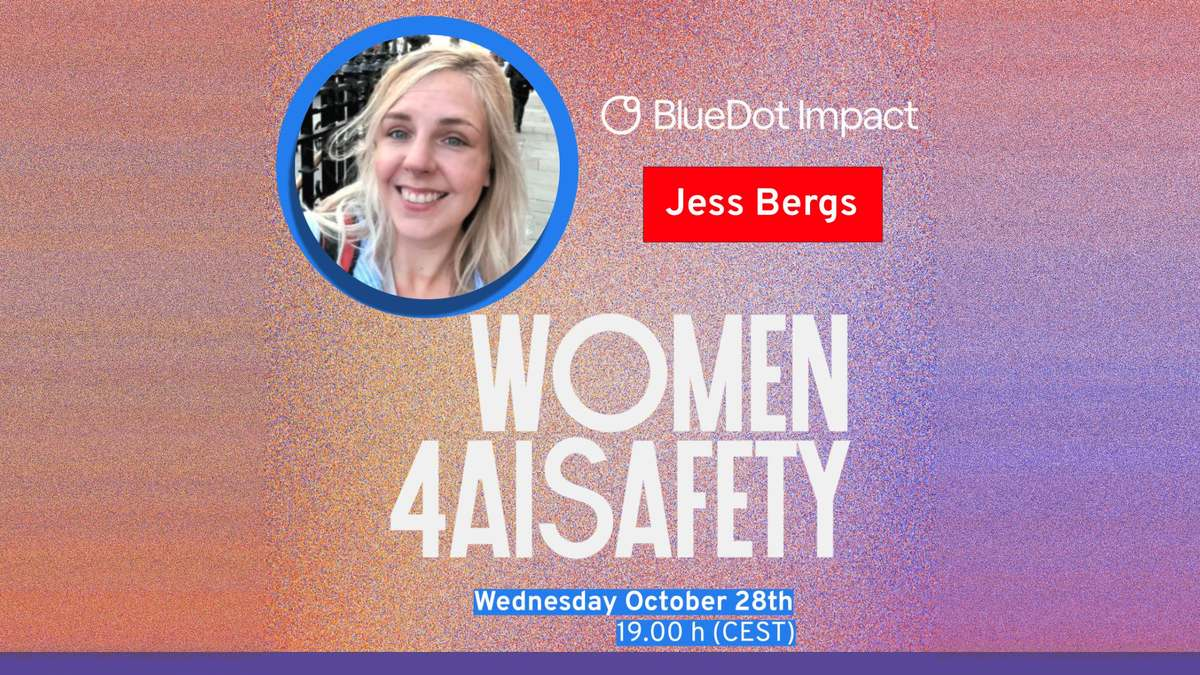
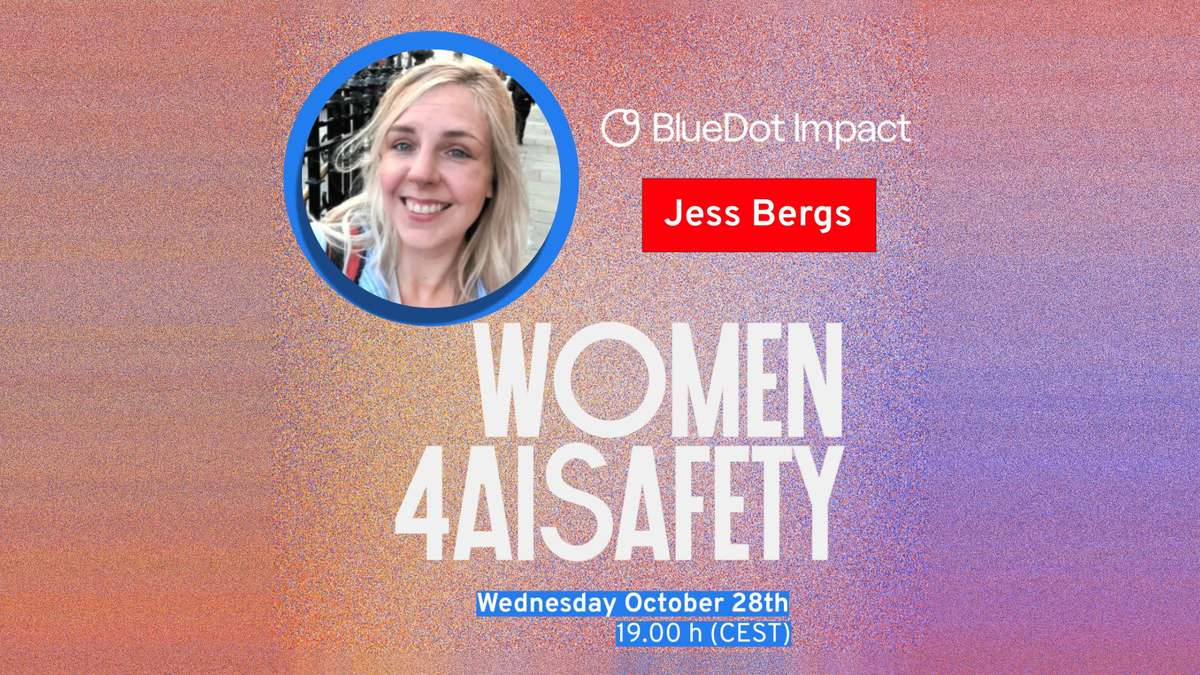
content: drop the strip and balance the margins on the Women4AISafety tile
The purple base strip is replaced by the extended background, and the content gets equal background margins: the distance from the portrait ring to the top edge equals the distance from the date line to the bottom edge. Screenshot refreshed.

diff --git a/docs/assets/women4aisafety-tile-candidates/make_tiles.py b/docs/assets/women4aisafety-tile-candidates/make_tiles.py
@@ -5,11 +5,16 @@ usage: uv run --with pillow python -I make_tiles.py <screenshot.png>
 
 The screenshot is the 1142x1432 LinkedIn post; GRAPHIC is the square event
 graphic inside it. The tile is 16:9, so the graphic's speckled gradient
-background and purple base strip are extended sideways: each extra pixel is a
-copy of a random pixel from a content-free sliver at the nearest edge of the
-graphic, taken from a nearby row (within JITTER rows, never across the strip
-edge). That keeps the gradient, the speckle and the strip continuous without a
-visible seam, and without the row banding that pure per-column copying gives.
+background is extended: sideways from content-free slivers at the left and
+right edges (keeping the top-bottom gradient), and above and below from
+content-free bands at the top and just under the date line (keeping the
+left-right gradient). Every added pixel is a random pixel from the relevant
+sliver/band within JITTER rows or columns of its own position, which keeps the
+gradient and speckle continuous without seams or banding.
+
+Variant A (live) drops the purple base strip and gives the content equal
+background margins of GAP rows above the portrait ring and below the date line.
+Variant B keeps the strip, with STRIP_GAP extra rows of background above it.
 Every candidate is 1200x675 and capped at 150 KB. The live tile is written to
 public/images/women4aisafety-2026.jpg.
 """
@@ -24,8 +29,11 @@ OUT_W, OUT_H = 1200, 675
 SIZE_CAP = 150_000
 GRAPHIC = (0, 277, 1109, 1390)  # (x0, y0, x1, y1) of the graphic in the screenshot (1109+ is page border)
 RIGHT_SLIVER = (1080, 1108)  # content-free columns at the graphic's right edge
-JITTER = 14  # rows either side a sampled pixel may come from
-LIVE = "A-extended-centred.jpg"
+LEFT_SLIVER_MAX = 28
+JITTER = 14  # rows/columns either side a sampled pixel may come from
+GAP = 52  # variant A: background rows above the ring and below the date line
+STRIP_GAP = 14  # variant B: extra background rows between the date line and the strip
+LIVE = "A-no-strip.jpg"
 
 
 def save_capped(img, path, cap=SIZE_CAP):
@@ -41,71 +49,125 @@ def luminance(p):
     return (p[0] * 299 + p[1] * 587 + p[2] * 114) // 1000
 
 
-def ring_left_edge(graphic, y0=0, y1=600, run=6):
-    """Leftmost x of the portrait ring (a run of saturated blue) in rows y0..y1."""
+def is_ring(p):
+    r, g, b = p
+    return b > 150 and r < 100 and b > g + 30
+
+
+def ring_bounds(graphic, run=6):
+    """(top row, leftmost column) of the portrait ring: runs of saturated blue."""
     px = graphic.load()
-    best = graphic.width
-    for y in range(y0, y1):
+    top, left = None, graphic.width
+    for y in range(0, 600):
         n = 0
-        for x in range(0, 80):
-            r, g, b = px[x, y]
-            n = n + 1 if (b > 150 and r < 100 and b > g + 30) else 0
+        for x in range(0, 560):
+            n = n + 1 if is_ring(px[x, y]) else 0
             if n >= run:
-                best = min(best, x - run + 1)
+                top = y if top is None else top
+                left = min(left, x - run + 1)
                 break
-    return best
+    return top, left
 
 
-def strip_top(graphic, max_rows=80, tol=12):
+def strip_top(graphic, max_rows=80, tol=48):
     """First row of the solid purple strip at the bottom (rows above it are speckled)."""
     px = graphic.load()
     w, h = graphic.size
     for y in range(h - 1, h - max_rows, -1):
         lums = [luminance(px[x, y]) for x in range(0, w, 7)]
-        if max(lums) - min(lums) > tol * 4:
+        if max(lums) - min(lums) > tol:
             return y + 1
     return h - max_rows
 
 
-def extend(graphic, sliver, width, rng, strip_y):
-    """A `width`-wide strip of pixels sampled from the sliver's columns and nearby rows."""
+def text_bottom_row(graphic, strip_y, run=3):
+    """Last row above the strip that still holds white text (the date line)."""
+    px = graphic.load()
+    for y in range(strip_y - 1, strip_y - 200, -1):
+        n = 0
+        for x in range(graphic.width):
+            n = n + 1 if luminance(px[x, y]) > 235 else 0
+            if n >= run:
+                return y
+    return strip_y - 1
+
+
+def band_fill(graphic, band, width, height, rng):
+    """width x height patch: pixel (x, y) is a random pixel from rows `band` near column x."""
+    if height <= 0:
+        return None
+    src = graphic.load()
+    out = Image.new("RGB", (width, height))
+    dst = out.load()
+    y0, y1 = band
+    w = graphic.width
+    for y in range(height):
+        for x in range(width):
+            sx = min(max(x + rng.randint(-JITTER, JITTER), 0), w - 1)
+            dst[x, y] = src[sx, rng.randrange(y0, y1)]
+    return out
+
+
+def side_fill(graphic, sliver, width, rng, strip_y=None):
+    """width x H patch: pixel (x, y) is a random pixel from columns `sliver` near row y."""
     src = graphic.load()
     h = graphic.height
     out = Image.new("RGB", (width, h))
     dst = out.load()
     x0, x1 = sliver
     for y in range(h):
-        lo, hi = (0, strip_y - 1) if y < strip_y else (strip_y, h - 1)
+        lo, hi = 0, h - 1
+        if strip_y is not None:
+            lo, hi = (0, strip_y - 1) if y < strip_y else (strip_y, h - 1)
         for x in range(width):
             sy = min(max(y + rng.randint(-JITTER, JITTER), lo), hi)
             dst[x, y] = src[rng.randrange(x0, x1), sy]
     return out
 
 
-def extended(graphic, left_w, right_w, left_sliver, rng, strip_y):
-    """The graphic with its background continued `left_w` / `right_w` columns sideways."""
-    c = Image.new("RGB", (graphic.width + left_w + right_w, graphic.height))
-    if left_w:
-        c.paste(extend(graphic, left_sliver, left_w, rng, strip_y), (0, 0))
-    c.paste(graphic, (left_w, 0))
-    if right_w:
-        c.paste(extend(graphic, RIGHT_SLIVER, right_w, rng, strip_y), (left_w + graphic.width, 0))
+def compose(parts, left_sliver, rng, strip_h=0):
+    """Stack `parts` vertically, extend sideways to 16:9, resize to the tile size."""
+    parts = [p for p in parts if p is not None]
+    h = sum(p.height for p in parts)
+    g = Image.new("RGB", (parts[0].width, h))
+    y = 0
+    for p in parts:
+        g.paste(p, (0, y))
+        y += p.height
+    strip_y = h - strip_h if strip_h else None
+    extra = round(h * OUT_W / OUT_H) - g.width
+    left_w, right_w = extra // 2, extra - extra // 2
+    c = Image.new("RGB", (g.width + extra, h))
+    c.paste(side_fill(g, left_sliver, left_w, rng, strip_y), (0, 0))
+    c.paste(g, (left_w, 0))
+    c.paste(side_fill(g, RIGHT_SLIVER, right_w, rng, strip_y), (left_w + g.width, 0))
     return c.resize((OUT_W, OUT_H), Image.LANCZOS)
 
 
 def main():
     shot = Image.open(sys.argv[1]).convert("RGB")
-    graphic = shot.crop(GRAPHIC)
+    g = shot.crop(GRAPHIC)
+    w, h = g.size
     rng = random.Random(4)
-    total_w = round(graphic.height * OUT_W / OUT_H)
-    extra = total_w - graphic.width
-    ring_x = ring_left_edge(graphic)
-    left_sliver = (0, max(4, min(ring_x - 4, 28)))
-    strip_y = strip_top(graphic)
-    print(f"ring left edge x={ring_x}; left sliver {left_sliver}; strip from row {strip_y}; extension {extra} px")
+    strip_y = strip_top(g)
+    text_y = text_bottom_row(g, strip_y)
+    ring_top, ring_left = ring_bounds(g)
+    left_sliver = (0, max(4, min(ring_left - 4, LEFT_SLIVER_MAX)))
+    top_band = (0, max(4, ring_top - 4))
+    bottom_band = (text_y + 2, strip_y)
+    body = g.crop((0, 0, w, strip_y))
+    strip = g.crop((0, strip_y, w, h))
+    print(f"ring top={ring_top} left={ring_left}; date line ends row {text_y}; strip from row {strip_y}")
+
+    def build(gap, keep_strip):
+        top = band_fill(g, top_band, w, gap - ring_top, rng)
+        bottom = band_fill(g, bottom_band, w, gap - (strip_y - text_y), rng)
+        parts = [top, body, bottom] + ([strip] if keep_strip else [])
+        return compose(parts, left_sliver, rng, strip.height if keep_strip else 0)
+
     out = {
-        "A-extended-centred.jpg": extended(graphic, extra // 2, extra - extra // 2, left_sliver, rng, strip_y),
-        "B-extended-left.jpg": extended(graphic, 0, extra, left_sliver, rng, strip_y),
+        "A-no-strip.jpg": build(GAP, keep_strip=False),
+        "B-strip-spaced.jpg": build(strip_y - text_y + STRIP_GAP, keep_strip=True),
     }
     for name, img in out.items():
         save_capped(img, HERE / name)

diff --git a/docs/assets/women4aisafety-tile-candidates/README.md b/docs/assets/women4aisafety-tile-candidates/README.md
@@ -2,18 +2,23 @@
 
 The live tile (`public/images/women4aisafety-2026.jpg`) uses variant **A**: the
 event graphic from the Women4AISafety LinkedIn post (28 October 2026 online
-session), centred, with its speckled gradient background and purple base strip
-extended on both sides to fill 16:9.
+session) with its speckled gradient background extended to fill 16:9. The
+purple base strip is dropped, and the content gets equal background margins:
+the distance from the portrait ring to the top edge equals the distance from
+the date line to the bottom edge.
 
-The source graphic is square. The extension copies random content-free columns
-from the nearest edge of the graphic, so the gradient, the speckle and the strip
-continue without a seam. Earlier variants that put the W4AIS wordmark on a cream
-panel beside the graphic were dropped: the wordmark appeared twice.
+The source graphic is square. Sideways, the extension copies random pixels
+from content-free slivers at the left and right edges (keeping the top-bottom
+gradient); above and below, from content-free bands at the top and just under
+the date line (keeping the left-right gradient). Each copied pixel comes from
+within a few rows or columns of its own position, so there is no seam or
+banding. Earlier variants that put the W4AIS wordmark on a cream panel beside
+the graphic were dropped: the wordmark appeared twice.
 
 ## The candidates (all 1200x675, capped at 150 KB)
 
-- `A-extended-centred.jpg` — **live tile.** Graphic centred, background extended both sides
-- `B-extended-left.jpg` — graphic flush left, background extended to the right only
+- `A-no-strip.jpg` — **live tile.** No purple strip, equal top and bottom margins
+- `B-strip-spaced.jpg` — purple strip kept, with extra background between the date line and the strip
 
 ## Regenerating
 
@@ -22,5 +27,5 @@ uv run --with pillow python -I make_tiles.py <screenshot-of-the-linkedin-post.pn
 ```
 
 `GRAPHIC` in the script is the graphic's box inside the 1142x1432 screenshot;
-`RIGHT_SLIVER` and the measured left sliver are the content-free edge columns
-the extension samples from. Nothing in this folder is served by the site.
+`GAP` and `STRIP_GAP` set the margins. The ring, the date line and the strip
+are located automatically. Nothing in this folder is served by the site.
